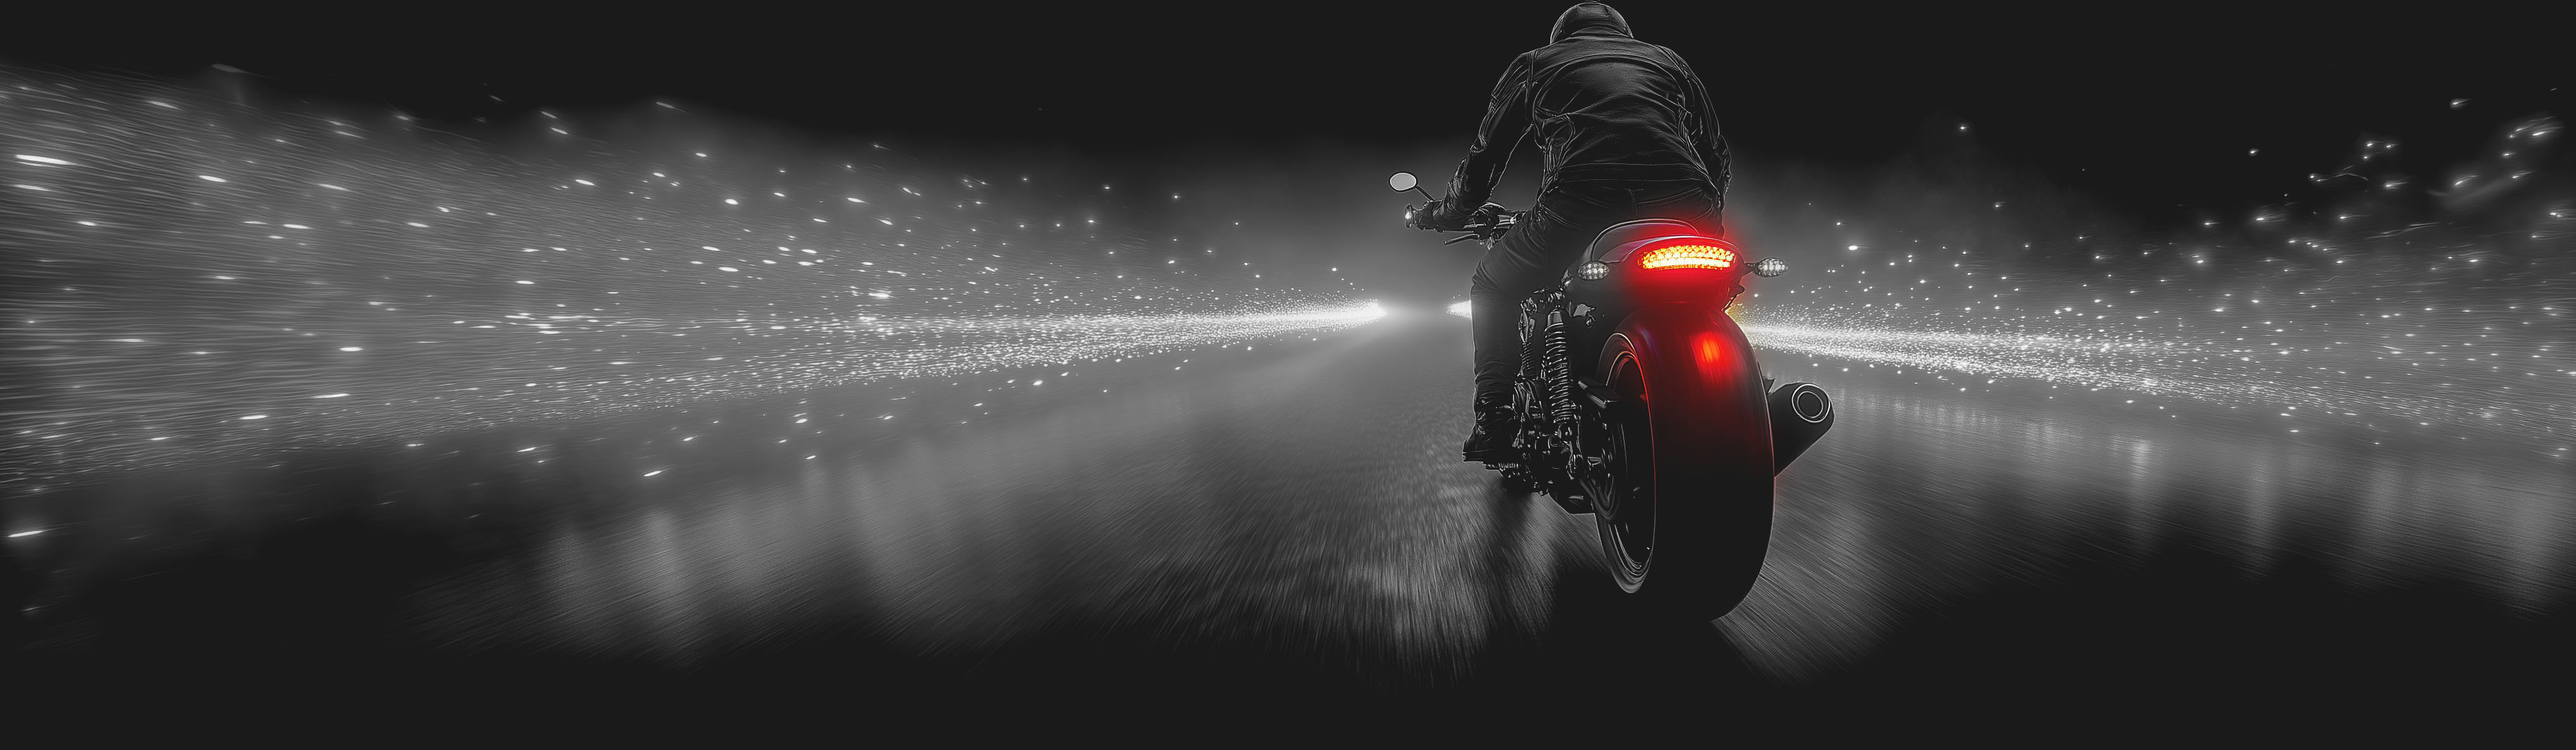
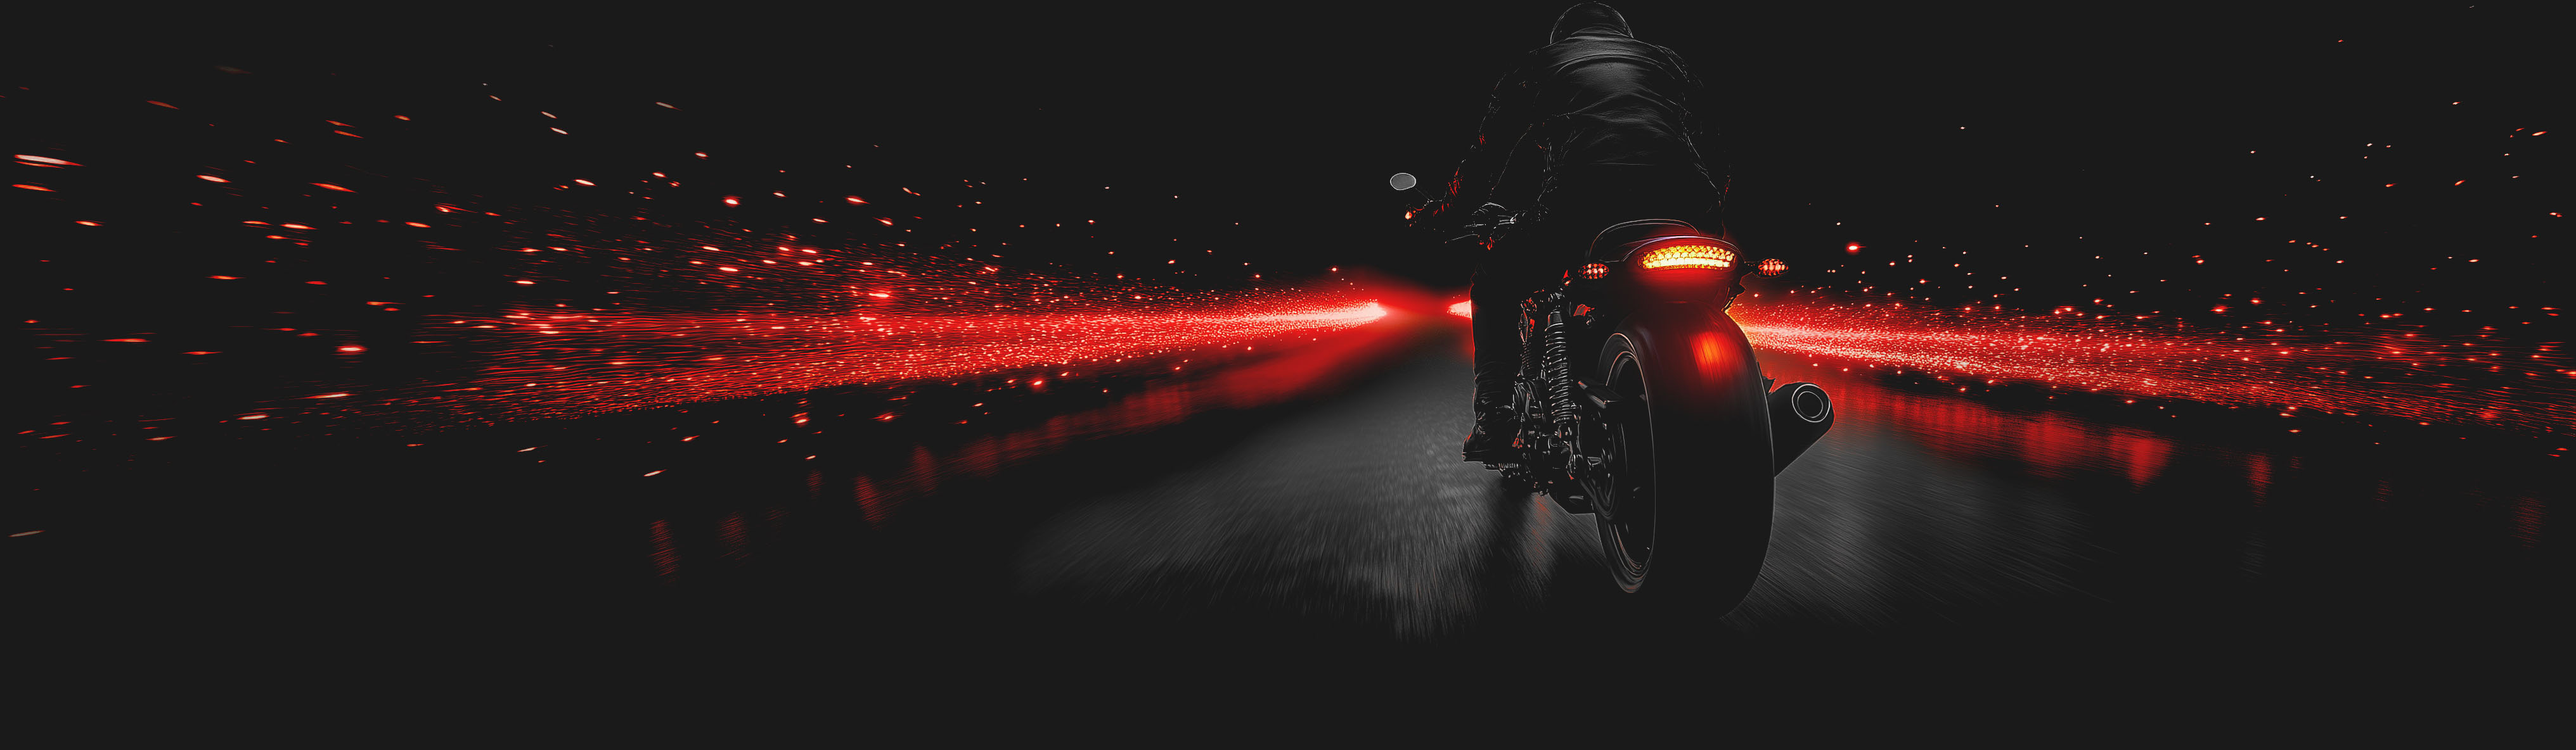
Changed some Panoramic images

diff --git a/index.html b/index.html
@@ -228,7 +228,7 @@
 
     <section>
         <div class="panoramic">
-            <img src="assets/main/Panoramic-Bikers-Standing-Night-Main-Background-Color.jpg" alt="Panoramic photo of a group of bikers standing next to their motorcycles at night in a red fog">
+            <img src="assets/main/Panoramic-Bikers-Racing-Roadsters-Night-Main-Background-Color.jpg" alt="Panoramic photo of a group of bikers standing next to their motorcycles at night in a red fog">
         </div>
     </section>
 
